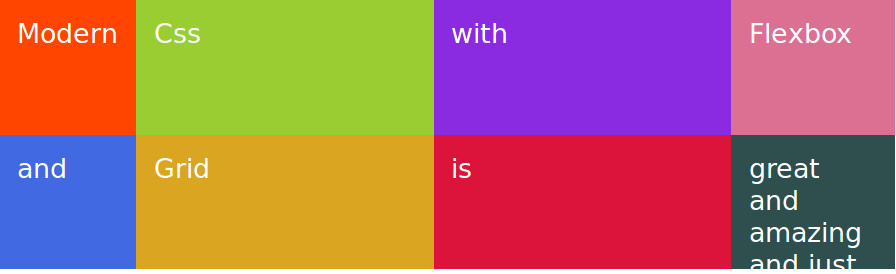
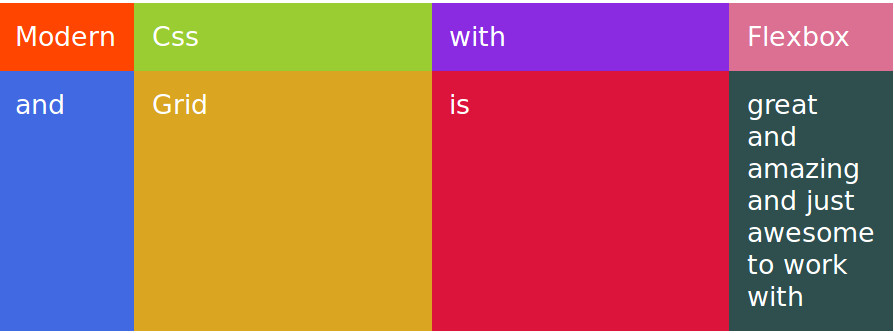
Set first column as the last one

diff --git a/index.html b/index.html
@@ -8,7 +8,7 @@
   </head>
   <body>
     <div class="container">
-      <div class="item item--1">Modern</div>
+      <div class="item item--1">Modern css with grid</div>
       <div class="item item--2">Css</div>
       <div class="item item--3">with</div>
       <div class="item item--4">Flexbox</div>

diff --git a/scss/style.scss b/scss/style.scss
@@ -5,7 +5,7 @@
   
   display: grid;
   //grid-template-rows: repeat(2, 150px);
-  grid-template-columns: max-content 1fr 1fr min-content;
+  grid-template-columns: min-content 1fr 1fr min-content;
   grid-template-rows: repeat(2, min-content);
   
   .item {
